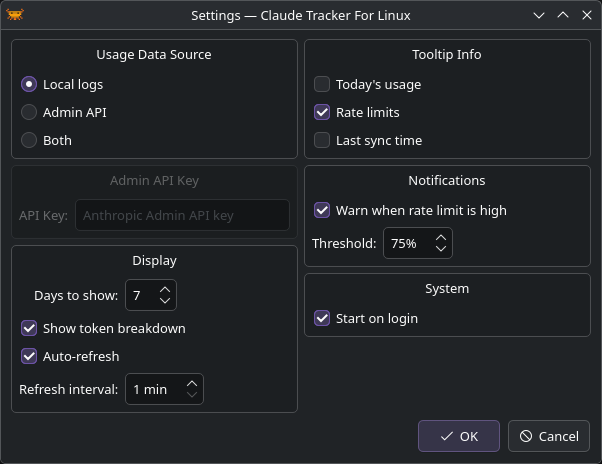
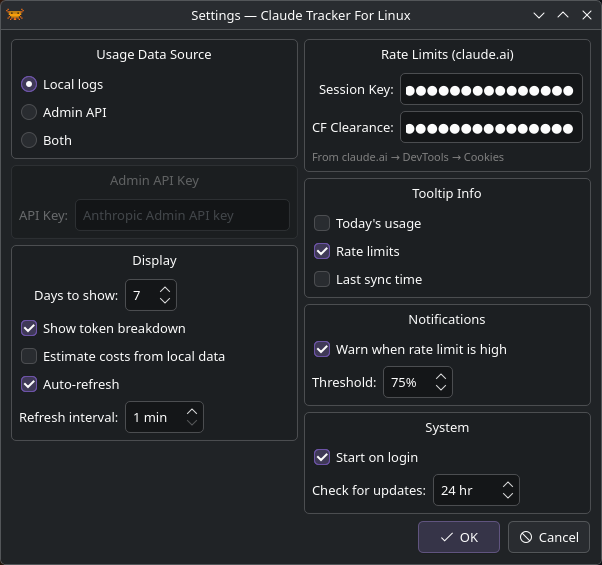
docs: add updating section, refresh settings screenshot

diff --git a/README.md b/README.md
@@ -105,6 +105,18 @@ Configure the data source and API key in **Settings**.
   <img src="screenshots/settings.png" width="480" alt="Settings dialog">
 </p>
 
+## Updating
+
+CTFL can check for new releases automatically (configurable in **Settings → Check for updates**).
+
+| Install method | Update behavior |
+|---|---|
+| **pip** | Auto-updates in place and restarts |
+| **AppImage** | Auto-updates in place and restarts |
+| **System package** (deb/rpm/pacman) | Opens the release page to download the new package |
+
+You can also check manually from the tray menu via **Check for Updates**.
+
 ## Compatibility
 
 Works on any Linux desktop environment with system tray support:
